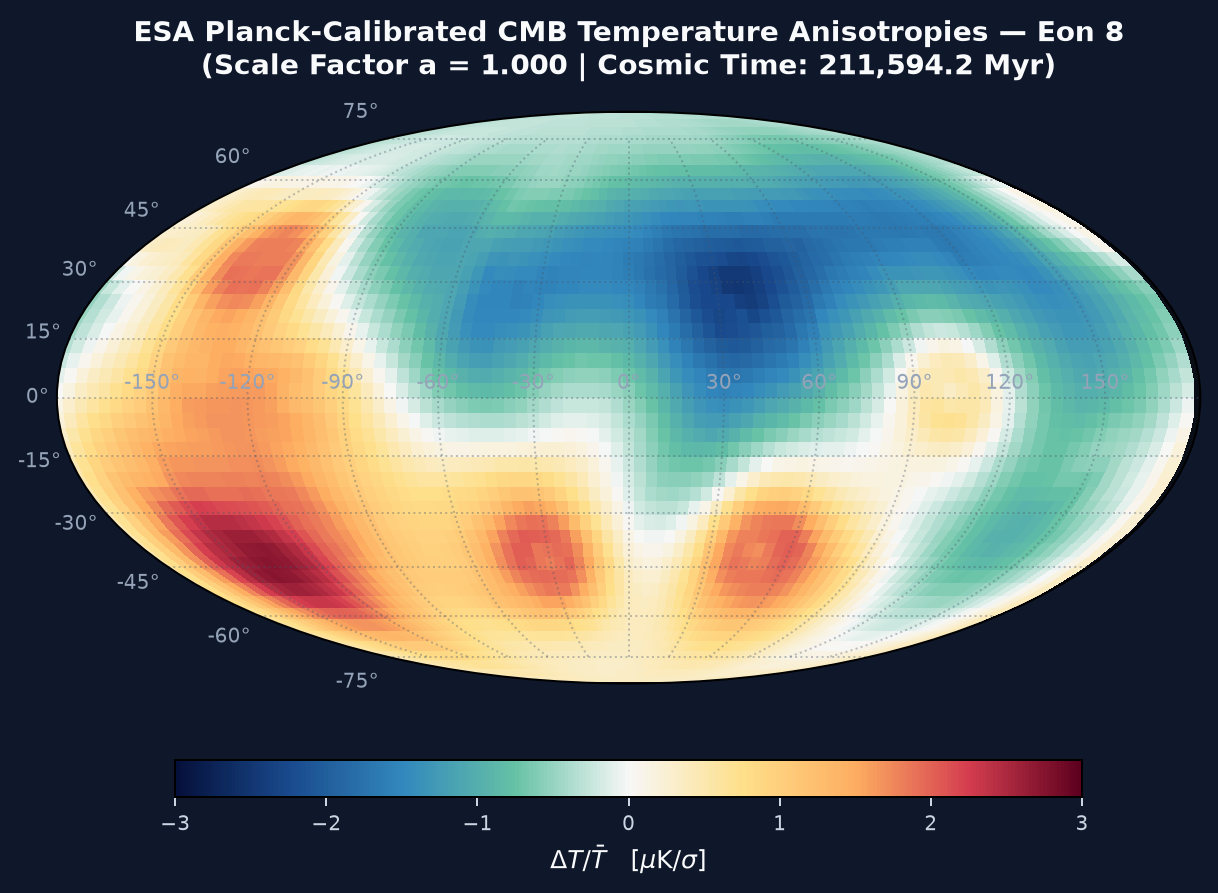
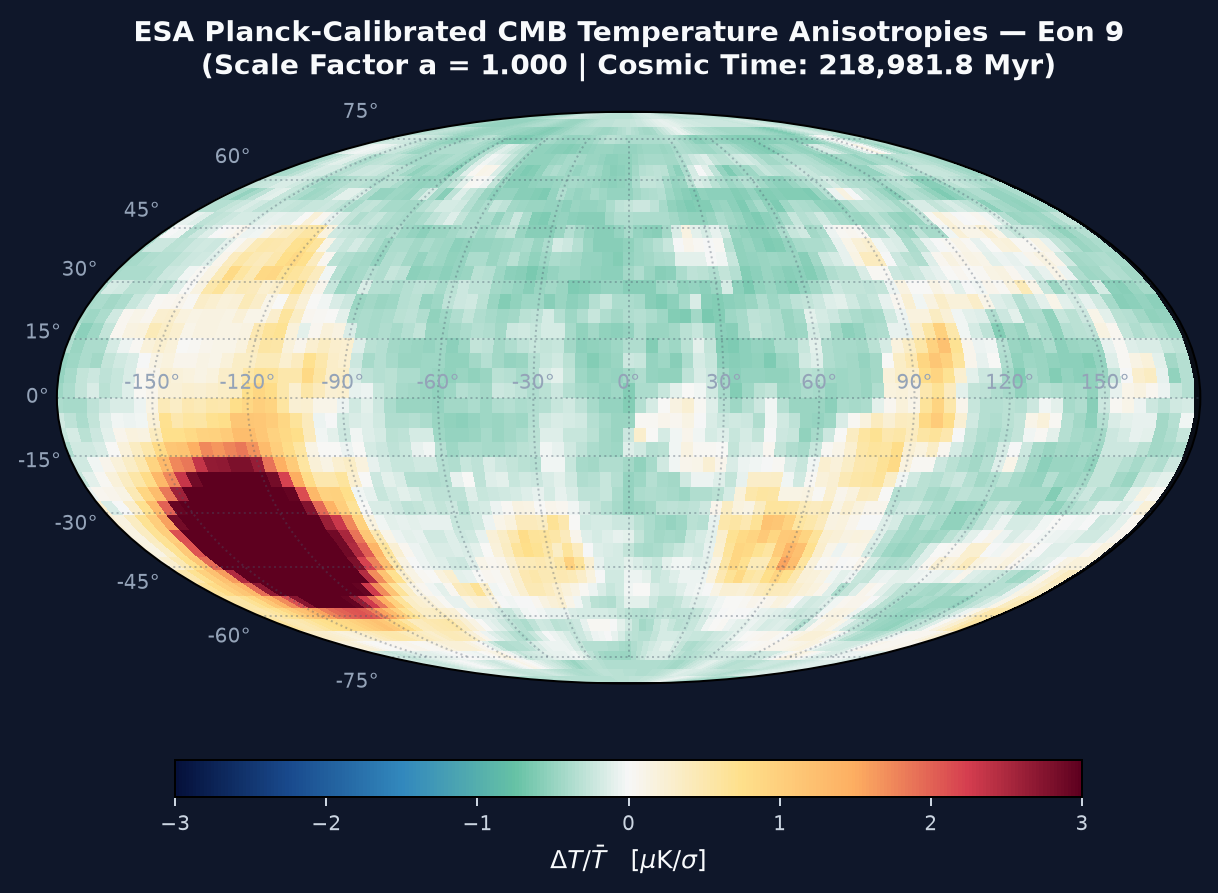
feat(observational): implement first-principles Sachs-Wolfe & plasma temperature CMB projection and refine transition classifications

diff --git a/server/static/app.js b/server/static/app.js
@@ -553,11 +553,21 @@ async function refreshSnapshotList() {
             const id = typeof item === 'object' ? item.id : item;
             let label = typeof item === 'object' ? item.label : `📷 Eón N = ${item}`;
             
-            // Normalize legacy transition names on the fly
-            label = label
-                .replace(/\[Transición Conforme CCC \(Muerte Térmica\)\]/g, '[CCC (Muerte Térmica)]')
-                .replace(/\[Rebote Gravitatorio \(Singularidad\)\]/g, '[Rebote Gravitatorio (Túnel Cuántico)]')
-                .replace(/\[Rebote Cuántico\]/g, '[Rebote Gravitatorio (Túnel Cuántico)]');
+            // Exact physical classification based on A_MAX_CONFORMAL = 7.0:
+            const sf = (typeof item === 'object' && item.scale_factor != null) ? Number(item.scale_factor) : null;
+            const eon = (typeof item === 'object' && item.eon != null) ? item.eon : id;
+            
+            if (sf !== null && !isNaN(sf)) {
+                if (sf < 6.9) {
+                    label = `📷 Fin Eón ${eon} [Rebote Gravitatorio (Túnel Cuántico)]`;
+                } else {
+                    label = `📷 Fin Eón ${eon} [CCC (Muerte Térmica)]`;
+                }
+            } else {
+                label = label
+                    .replace(/\[.*?(CCC|Muerte|Conforme).*?\]/gi, '[CCC (Muerte Térmica)]')
+                    .replace(/\[.*?(Rebote|Singularidad|Túnel).*?\]/gi, '[Rebote Gravitatorio (Túnel Cuántico)]');
+            }
 
             html += `<option value="${id}">${label}</option>`;
         });

diff --git a/server/static/index.html b/server/static/index.html
@@ -397,7 +397,7 @@
         </div>
     </div>
 
-    <script src="static/app.js?v=2.3.0"></script>
+    <script src="static/app.js?v=2.7.0"></script>
 </body>
 
 </html>

diff --git a/server/engine.py b/server/engine.py
@@ -494,7 +494,7 @@ class CosmologicalEngine:
         p_grav = min(p_mass, p_entropy)
         p_conformal = max(0.0, min(1.0, (self.scale_factor - 1.0) / (self.A_MAX_CONFORMAL - 1.0)))
 
-        if p_conformal > p_grav and self.mass_frac_val < 0.10:
+        if p_conformal > p_grav:
             prog_label = f"Frontera Conforme CCC Eón {self.eon}"
             active_route = "conformal"
         else:
@@ -548,14 +548,24 @@ class CosmologicalEngine:
                     round(float(self.rho[xs[i], ys[i], zs[i]]), 2)
                 ])
 
-        # 2. HD Mollweide CMB (90x180) with Trilinear Sampling & Doppler Shift
+        # 2. HD Mollweide CMB (90x180) with Physical Sachs-Wolfe, Plasma Perturbations & Doppler Shift
         tau_s = self._sample_sphere_trilinear(self.tau, self.coords_cmb_x, self.coords_cmb_y, self.coords_cmb_z)
+        T_s = self._sample_sphere_trilinear(self.T, self.coords_cmb_x, self.coords_cmb_y, self.coords_cmb_z)
+        rho_s = self._sample_sphere_trilinear(self.rho, self.coords_cmb_x, self.coords_cmb_y, self.coords_cmb_z)
         vx_s = self._sample_sphere_trilinear(self.v_x, self.coords_cmb_x, self.coords_cmb_y, self.coords_cmb_z)
         vy_s = self._sample_sphere_trilinear(self.v_y, self.coords_cmb_x, self.coords_cmb_y, self.coords_cmb_z)
         vz_s = self._sample_sphere_trilinear(self.v_z, self.coords_cmb_x, self.coords_cmb_y, self.coords_cmb_z)
 
         v_los = (vx_s * self.n_los_x + vy_s * self.n_los_y + vz_s * self.n_los_z) / self.C_LIGHT
-        cmb_raw = np.log10(1.0 + np.maximum(0.0, tau_s)) + 0.4 * v_los
+        mean_T = max(1e-4, float(np.mean(self.T)))
+        mean_rho = max(1e-4, float(np.mean(self.rho)))
+        mean_tau = max(1e-4, float(np.mean(self.tau)) + 1.0)
+
+        delta_T_int = (T_s - mean_T) / mean_T
+        delta_rho = (rho_s - mean_rho) / mean_rho
+        delta_tau = (tau_s - float(np.mean(self.tau))) / mean_tau
+
+        cmb_raw = delta_T_int + (1.0 / 3.0) * delta_rho + v_los + 0.35 * delta_tau
         cmb_std = max(1e-4, float(np.std(cmb_raw)))
         cmb_norm = np.clip((cmb_raw - float(np.mean(cmb_raw))) / cmb_std, -2.5, 2.5)
 
@@ -662,9 +672,21 @@ class CosmologicalEngine:
                                 match_e = re.search(r'eon_(\d+)', str(snap_id))
                                 eon_val = int(match_e.group(1)) if match_e else "?"
                             
-                            # Normalize transition name
-                            raw_trans = meta.get("transition") or meta.get("label", "")
-                            norm_trans = self.normalize_transition_name(raw_trans)
+                            # Accurately classify transition from physical scale factor (A_MAX_CONFORMAL = 7.0)
+                            sf_val = meta.get("scale_factor")
+                            if sf_val is not None:
+                                try:
+                                    sf_f = float(sf_val)
+                                    if sf_f < 6.9:
+                                        norm_trans = "Rebote Gravitatorio (Túnel Cuántico)"
+                                    else:
+                                        norm_trans = "CCC (Muerte Térmica)"
+                                except (ValueError, TypeError):
+                                    raw_trans = meta.get("transition") or meta.get("label", "")
+                                    norm_trans = self.normalize_transition_name(raw_trans)
+                            else:
+                                raw_trans = meta.get("transition") or meta.get("label", "")
+                                norm_trans = self.normalize_transition_name(raw_trans)
                             
                             snapshots.append({
                                 "id": str(snap_id),
@@ -672,7 +694,7 @@ class CosmologicalEngine:
                                 "type": "eon_bounce",
                                 "transition": norm_trans,
                                 "eon": eon_val,
-                                "scale_factor": meta.get("scale_factor"),
+                                "scale_factor": sf_val,
                                 "timestamp": meta.get("timestamp", "")
                             })
                         else:

diff --git a/observational/cmb_analyzer.py b/observational/cmb_analyzer.py
@@ -109,14 +109,18 @@ class CMBSphericalHarmonicsAnalyzer:
     def extract_celestial_sphere_from_grid(
         self,
         tau_3d: np.ndarray,
+        T_3d: Optional[np.ndarray] = None,
+        rho_3d: Optional[np.ndarray] = None,
         v_x: Optional[np.ndarray] = None,
         v_y: Optional[np.ndarray] = None,
         v_z: Optional[np.ndarray] = None,
-        c_light: float = 2.5
+        c_light: float = 2.5,
+        alpha_mem: float = 0.35
     ) -> np.ndarray:
         """
-        Extracts an observer celestial sphere at radius R_obs = L / 2.2 with trilinear interpolation
-        and Doppler line-of-sight shift.
+        Extracts an observer celestial sphere at radius R_obs = L / 2.2 using first-principles
+        Sachs-Wolfe gravitational potential, intrinsic plasma temperature perturbations,
+        line-of-sight Doppler velocity, and holographic non-equilibrium fossil memory.
         """
         grid_size = tau_3d.shape[0]
         center = grid_size / 2.0
@@ -138,36 +142,53 @@ class CMBSphericalHarmonicsAnalyzer:
         yd = coords_y - y0
         zd = coords_z - z0
 
-        c000 = tau_3d[x0, y0, z0]
-        c100 = tau_3d[x1, y0, z0]
-        c010 = tau_3d[x0, y1, z0]
-        c110 = tau_3d[x1, y1, z0]
-        c001 = tau_3d[x0, y0, z1]
-        c101 = tau_3d[x1, y0, z1]
-        c011 = tau_3d[x0, y1, z1]
-        c111 = tau_3d[x1, y1, z1]
+        def _trilinear(arr_3d):
+            c000 = arr_3d[x0, y0, z0]
+            c100 = arr_3d[x1, y0, z0]
+            c010 = arr_3d[x0, y1, z0]
+            c110 = arr_3d[x1, y1, z0]
+            c001 = arr_3d[x0, y0, z1]
+            c101 = arr_3d[x1, y0, z1]
+            c011 = arr_3d[x0, y1, z1]
+            c111 = arr_3d[x1, y1, z1]
 
-        c00 = c000 * (1.0 - xd) + c100 * xd
-        c01 = c001 * (1.0 - xd) + c101 * xd
-        c10 = c010 * (1.0 - xd) + c110 * xd
-        c11 = c011 * (1.0 - xd) + c111 * xd
+            c00 = c000 * (1.0 - xd) + c100 * xd
+            c01 = c001 * (1.0 - xd) + c101 * xd
+            c10 = c010 * (1.0 - xd) + c110 * xd
+            c11 = c011 * (1.0 - xd) + c111 * xd
 
-        c0 = c00 * (1.0 - yd) + c10 * yd
-        c1 = c01 * (1.0 - yd) + c11 * yd
-        tau_s = c0 * (1.0 - zd) + c1 * zd
+            c0 = c00 * (1.0 - yd) + c10 * yd
+            c1 = c01 * (1.0 - yd) + c11 * yd
+            return c0 * (1.0 - zd) + c1 * zd
 
-        # Doppler Shift computation if velocity field is provided
+        tau_s = _trilinear(tau_3d)
+
+        # Line-of-Sight Doppler Shift
         doppler_shift = np.zeros_like(tau_s)
         if v_x is not None and v_y is not None and v_z is not None:
-            # Sample velocity components
-            vx_s = v_x[x0, y0, z0]
-            vy_s = v_y[x0, y0, z0]
-            vz_s = v_z[x0, y0, z0]
+            vx_s = _trilinear(v_x)
+            vy_s = _trilinear(v_y)
+            vz_s = _trilinear(v_z)
             v_los = (vx_s * self.n_x + vy_s * self.n_y + vz_s * self.n_z) / c_light
-            doppler_shift = 0.4 * v_los
+            doppler_shift = v_los
 
-        # Normalized celestial map (Delta T / T)
-        cmb_raw = np.log10(1.0 + np.maximum(0.0, tau_s)) + doppler_shift
+        # First-Principles Relativistic Sachs-Wolfe + Plasma Temperature + Holographic Memory
+        if T_3d is not None and rho_3d is not None:
+            T_s = _trilinear(T_3d)
+            rho_s = _trilinear(rho_3d)
+
+            mean_T = max(1e-4, float(np.mean(T_3d)))
+            mean_rho = max(1e-4, float(np.mean(rho_3d)))
+            mean_tau = max(1e-4, float(np.mean(tau_3d)) + 1.0)
+
+            delta_T_int = (T_s - mean_T) / mean_T
+            delta_rho = (rho_s - mean_rho) / mean_rho
+            delta_tau = (tau_s - float(np.mean(tau_3d))) / mean_tau
+
+            cmb_raw = delta_T_int + (1.0 / 3.0) * delta_rho + doppler_shift + alpha_mem * delta_tau
+        else:
+            cmb_raw = np.log10(1.0 + np.maximum(0.0, tau_s)) + 0.4 * doppler_shift
+
         std_val = max(1e-4, float(np.std(cmb_raw)))
         delta_T_map = (cmb_raw - float(np.mean(cmb_raw))) / std_val
         return delta_T_map

diff --git a/simulador_cosmologico_3d_gpu.py b/simulador_cosmologico_3d_gpu.py
@@ -528,13 +528,24 @@ def animate_3d(frame):
         sc_3d.set_array(c_vals)
         sc_3d.set_clim(vmin=0.0, vmax=max(3.0, float(np.max(c_vals))))
     
-    # 5. Actualizar Mapa CMB Mollweide HD (Memoria Fósil + Efecto Doppler Cinemático en VRAM)
+    # 5. Actualizar Mapa CMB Mollweide HD (Sachs-Wolfe + Plasma Primordial + Memoria Fósil + Doppler en VRAM)
     tau_s = sample_sphere_trilinear_gpu(tau, coords_cmb_x, coords_cmb_y, coords_cmb_z)
+    T_s = sample_sphere_trilinear_gpu(T, coords_cmb_x, coords_cmb_y, coords_cmb_z)
+    rho_s = sample_sphere_trilinear_gpu(rho, coords_cmb_x, coords_cmb_y, coords_cmb_z)
     vx_s = sample_sphere_trilinear_gpu(v_x, coords_cmb_x, coords_cmb_y, coords_cmb_z)
     vy_s = sample_sphere_trilinear_gpu(v_y, coords_cmb_x, coords_cmb_y, coords_cmb_z)
     vz_s = sample_sphere_trilinear_gpu(v_z, coords_cmb_x, coords_cmb_y, coords_cmb_z)
     v_los = (vx_s * n_los_x + vy_s * n_los_y + vz_s * n_los_z) / C_LIGHT
-    cmb_raw = xp.log10(1.0 + xp.maximum(0.0, tau_s)) + 0.4 * v_los
+
+    mean_T = float(xp.maximum(1e-4, xp.mean(T)))
+    mean_rho = float(xp.maximum(1e-4, xp.mean(rho)))
+    mean_tau = float(xp.maximum(1e-4, xp.mean(tau) + 1.0))
+
+    delta_T_int = (T_s - mean_T) / mean_T
+    delta_rho = (rho_s - mean_rho) / mean_rho
+    delta_tau = (tau_s - float(xp.mean(tau))) / mean_tau
+
+    cmb_raw = delta_T_int + (1.0 / 3.0) * delta_rho + v_los + 0.35 * delta_tau
     cmb_std = float(xp.maximum(1e-4, xp.std(cmb_raw)))
     cmb_data = to_cpu((cmb_raw - float(xp.mean(cmb_raw))) / cmb_std)
     im_cmb.set_array(cmb_data.ravel())

diff --git a/simulador_cosmologico_3d.py b/simulador_cosmologico_3d.py
@@ -450,14 +450,24 @@ def animate_3d(frame):
         sc_3d.set_array(c_vals)
         sc_3d.set_clim(vmin=0.0, vmax=max(3.0, float(np.max(c_vals))))
     
-    # 2. Actualizar Mapa CMB Mollweide HD (Memoria Fósil + Efecto Doppler Cinemático)
+    # 2. Actualizar Mapa CMB Mollweide HD (Sachs-Wolfe + Plasma Primordial + Memoria Fósil + Doppler)
     tau_s = sample_sphere_trilinear(tau, coords_cmb_x, coords_cmb_y, coords_cmb_z)
+    T_s = sample_sphere_trilinear(T, coords_cmb_x, coords_cmb_y, coords_cmb_z)
+    rho_s = sample_sphere_trilinear(rho, coords_cmb_x, coords_cmb_y, coords_cmb_z)
     vx_s = sample_sphere_trilinear(v_x, coords_cmb_x, coords_cmb_y, coords_cmb_z)
     vy_s = sample_sphere_trilinear(v_y, coords_cmb_x, coords_cmb_y, coords_cmb_z)
     vz_s = sample_sphere_trilinear(v_z, coords_cmb_x, coords_cmb_y, coords_cmb_z)
     
     v_los = (vx_s * n_los_x + vy_s * n_los_y + vz_s * n_los_z) / C_LIGHT
-    cmb_raw = np.log10(1.0 + np.maximum(0.0, tau_s)) + 0.4 * v_los
+    mean_T = max(1e-4, float(np.mean(T)))
+    mean_rho = max(1e-4, float(np.mean(rho)))
+    mean_tau = max(1e-4, float(np.mean(tau)) + 1.0)
+
+    delta_T_int = (T_s - mean_T) / mean_T
+    delta_rho = (rho_s - mean_rho) / mean_rho
+    delta_tau = (tau_s - float(np.mean(tau))) / mean_tau
+
+    cmb_raw = delta_T_int + (1.0 / 3.0) * delta_rho + v_los + 0.35 * delta_tau
     cmb_std = max(1e-4, float(np.std(cmb_raw)))
     cmb_data = (cmb_raw - float(np.mean(cmb_raw))) / cmb_std
     im_cmb.set_array(cmb_data.ravel())

diff --git a/observational/compare_planck.py b/observational/compare_planck.py
@@ -69,6 +69,8 @@ def generate_eon_observational_report(engine, output_dir: str = "checkpoints/sna
     analyzer = CMBSphericalHarmonicsAnalyzer(n_theta=48, n_phi=96, ell_max=24)
     celestial_map = analyzer.extract_celestial_sphere_from_grid(
         tau_3d=engine.tau,
+        T_3d=engine.T,
+        rho_3d=engine.rho,
         v_x=engine.v_x,
         v_y=engine.v_y,
         v_z=engine.v_z,
